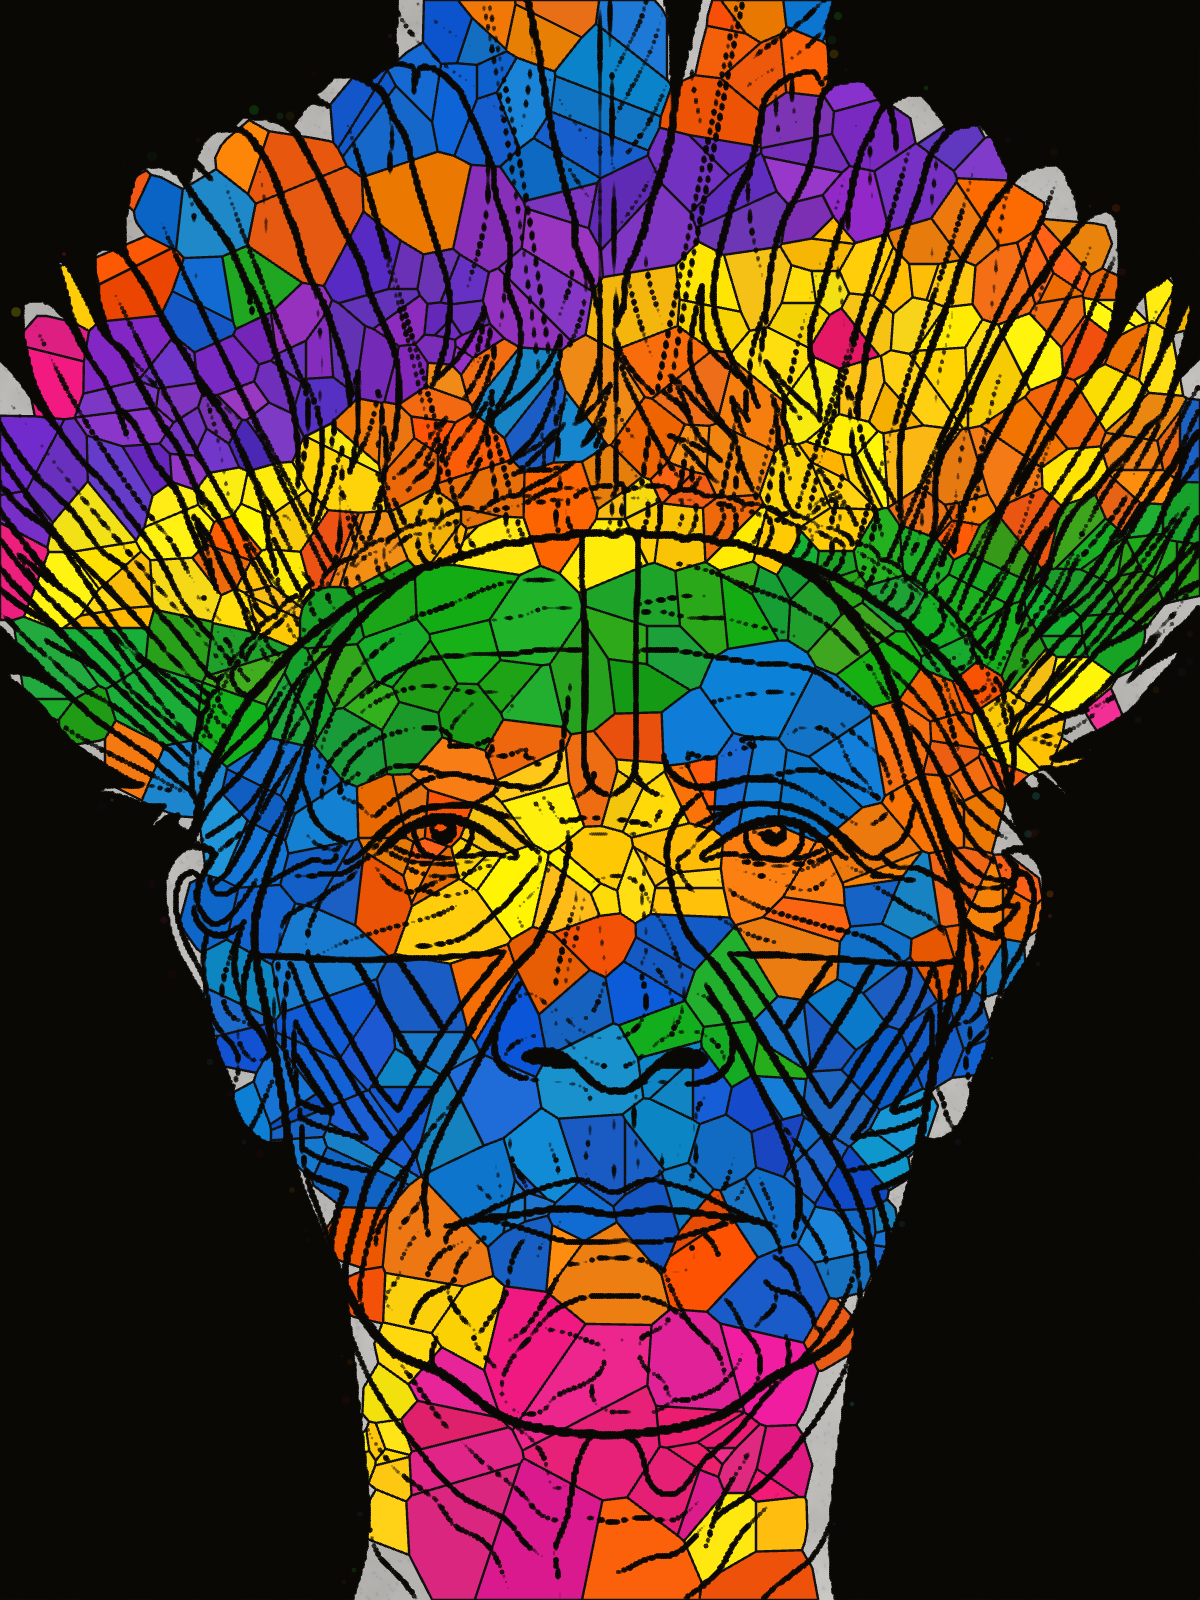
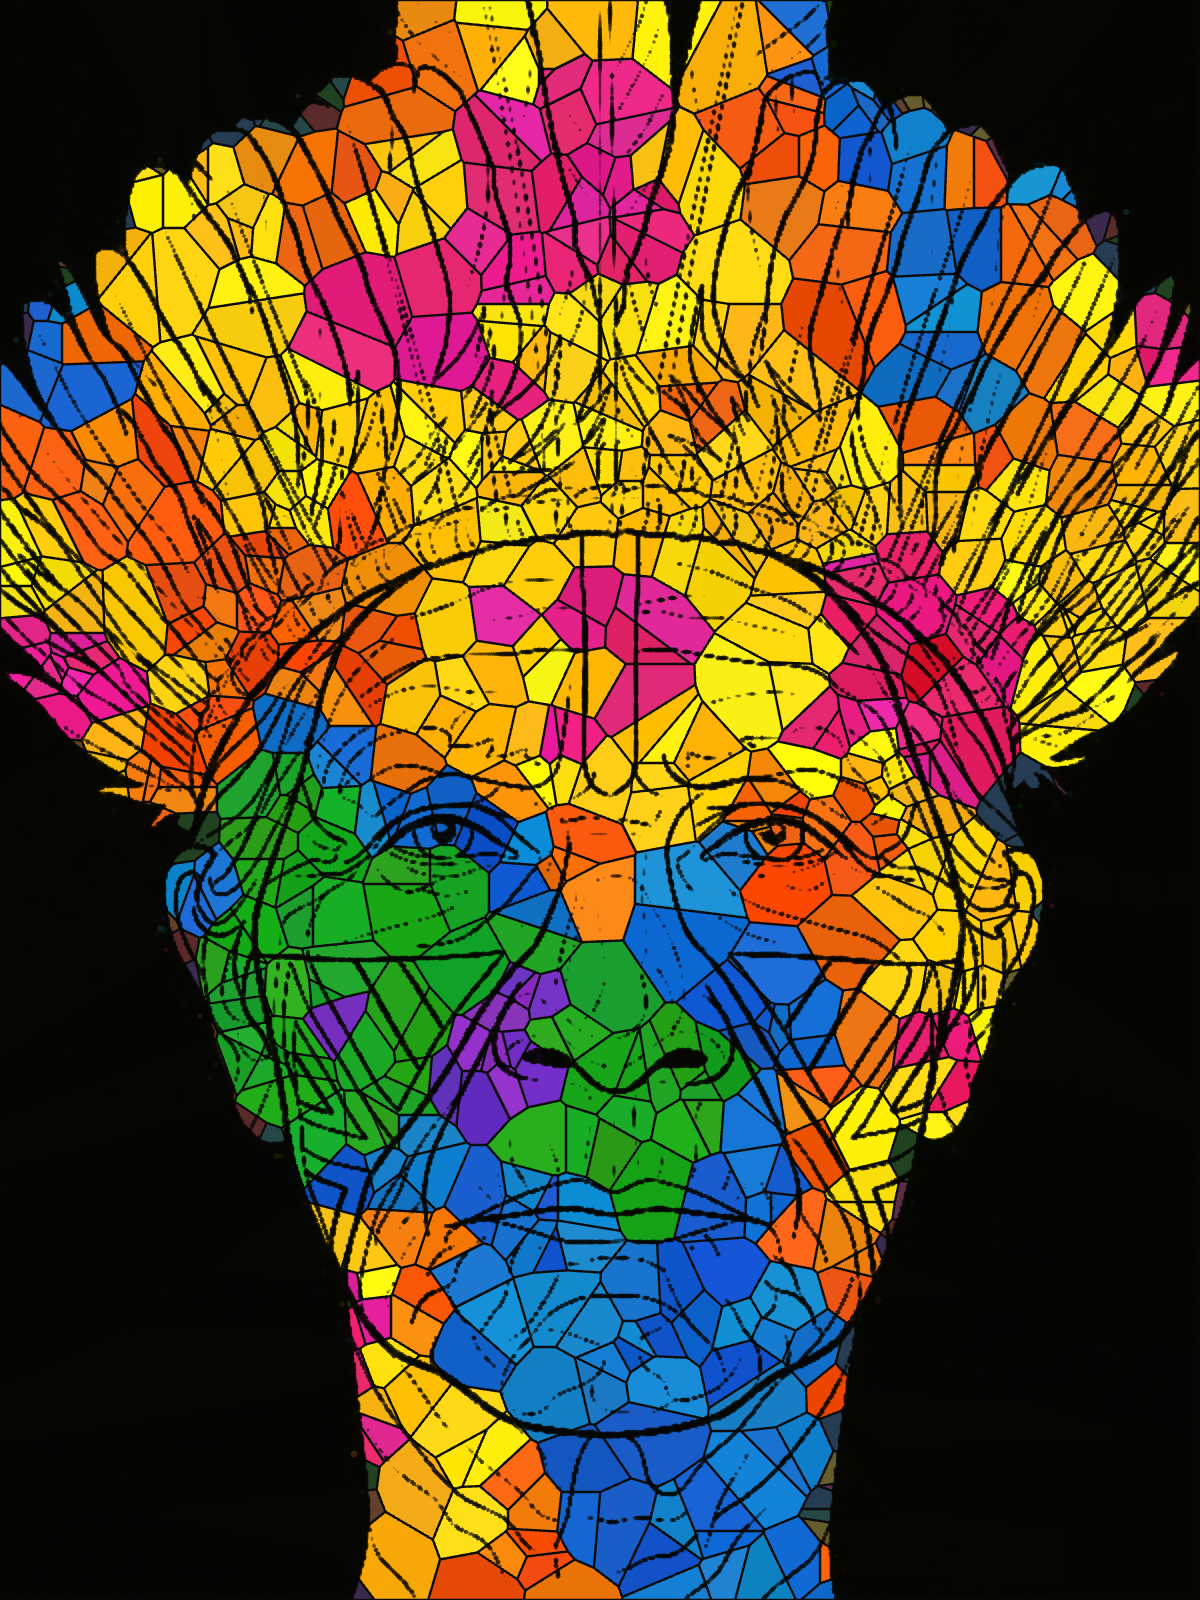
feat: refine Kobra sketch — Voronoi mosaic with thinner strokes for face clarity

diff --git a/sketches/kobra/sketch.js b/sketches/kobra/sketch.js
@@ -3,8 +3,8 @@
  *
  * Generative Eduardo Kobra-style mosaic portrait.
  * A reference image provides facial structure;
- * Voronoi tessellation with kaleidoscopic colors
- * transforms it into a street-mural aesthetic.
+ * Voronoi tessellation with bold spray paint colors
+ * creates geometric color blocks like real Kobra murals.
  *
  * Controls:
  * - Click: Generate new composition
@@ -13,11 +13,10 @@
 
 const W = 600;
 const H = 800;
-const NUM_SEEDS = 500;
-const BORDER_SEEDS = 200;
+const NUM_SEEDS = 600;
+const BORDER_SEEDS = 120;
 
 // Kobra spray paint palettes — bold, vivid, high-saturation colors
-// Based on actual Eduardo Kobra murals and Kobra spray paint chart
 const PALETTES = [
   { // Classic Kobra — full rainbow, maximum impact
     name: 'classic',
@@ -35,43 +34,42 @@ const PALETTES = [
   { // Warm Mural — reds, oranges, yellows, magentas
     name: 'warm',
     colors: [
-      [0, 90, 85],    [355, 85, 90],  // reds
-      [15, 95, 95],   [30, 95, 100],  // oranges
-      [50, 95, 100],  [45, 90, 95],   // yellows
-      [330, 80, 85],  [310, 75, 80],  // magentas/pinks
+      [0, 90, 85],    [355, 85, 90],
+      [15, 95, 95],   [30, 95, 100],
+      [50, 95, 100],  [45, 90, 95],
+      [330, 80, 85],  [310, 75, 80],
     ],
   },
   { // Cool Mural — blues, teals, greens, purples
     name: 'cool',
     colors: [
-      [210, 90, 80],  [225, 85, 75],  // blues
-      [180, 85, 70],  [165, 80, 75],  // teals
-      [120, 80, 70],  [140, 75, 65],  // greens
-      [270, 70, 80],  [285, 65, 75],  // purples
+      [210, 90, 80],  [225, 85, 75],
+      [180, 85, 70],  [165, 80, 75],
+      [120, 80, 70],  [140, 75, 65],
+      [270, 70, 80],  [285, 65, 75],
     ],
   },
   { // Tropical — greens, yellows, oranges, reds
     name: 'tropical',
     colors: [
-      [120, 85, 70],  [100, 80, 80],  // greens
-      [50, 95, 100],  [60, 90, 90],   // yellows
-      [25, 95, 95],   [15, 90, 90],   // oranges
-      [0, 90, 85],    [345, 85, 80],  // reds/crimsons
+      [120, 85, 70],  [100, 80, 80],
+      [50, 95, 100],  [60, 90, 90],
+      [25, 95, 95],   [15, 90, 90],
+      [0, 90, 85],    [345, 85, 80],
     ],
   },
   { // Cosmic — purples, blues, magentas, teals
     name: 'cosmic',
     colors: [
-      [270, 80, 78],  [255, 75, 82],  // purples
-      [210, 85, 85],  [195, 80, 78],  // blues
-      [330, 85, 88],  [340, 80, 85],  // magentas
-      [180, 80, 72],  [165, 75, 78],  // teals
+      [270, 80, 78],  [255, 75, 82],
+      [210, 85, 85],  [195, 80, 78],
+      [330, 85, 88],  [340, 80, 85],
+      [180, 80, 72],  [165, 75, 78],
     ],
   },
 ];
 
 let refImg;
-let wallBuffer;
 let lineBuffer;
 let currentPalette;
 
@@ -83,36 +81,6 @@ function preload() {
   refImg = loadImage('reference.jpg');
 }
 
-function generateWall() {
-  wallBuffer = createGraphics(W, H);
-  wallBuffer.pixelDensity(1);
-  wallBuffer.loadPixels();
-
-  for (let y = 0; y < H; y++) {
-    for (let x = 0; x < W; x++) {
-      let gray = 185;
-      gray += (noise(x * 0.015, y * 0.015) - 0.5) * 35;
-      gray += (noise(x * 0.08 + 500, y * 0.08 + 500) - 0.5) * 18;
-      // Subtle warm tint
-      let r = gray + 3;
-      let g = gray + 1;
-      let b = gray - 2;
-
-      if (noise(x * 0.5 + 1000, y * 0.5 + 1000) > 0.72) {
-        r -= 15; g -= 15; b -= 12;
-      }
-
-      const idx = (y * W + x) * 4;
-      wallBuffer.pixels[idx] = constrain(r, 150, 215);
-      wallBuffer.pixels[idx + 1] = constrain(g, 148, 213);
-      wallBuffer.pixels[idx + 2] = constrain(b, 146, 210);
-      wallBuffer.pixels[idx + 3] = 255;
-    }
-  }
-
-  wallBuffer.updatePixels();
-}
-
 function generateLineBuffer() {
   lineBuffer = createGraphics(W, H);
   lineBuffer.pixelDensity(2);
@@ -122,10 +90,10 @@ function generateLineBuffer() {
   for (let y = 0; y < H; y++) {
     for (let x = 0; x < W; x++) {
       let br = brightnessMap[y][x];
-      if (br < 0.15) {
-        let alpha = map(br, 0, 0.15, 245, 40);
-        let sz = map(br, 0, 0.15, 3, 0.6);
-        lineBuffer.fill(10, 8, 5, alpha);
+      if (br < 0.12) {
+        let alpha = map(br, 0, 0.12, 200, 30);
+        let sz = map(br, 0, 0.12, 2.5, 0.5);
+        lineBuffer.fill(5, 5, 2, alpha);
         lineBuffer.circle(x, y, sz);
       }
     }
@@ -156,7 +124,7 @@ function processReference() {
 
 function dilateSilhouette() {
   let dilated = [];
-  let radius = 4;
+  let radius = 5;
   for (let y = 0; y < H; y++) {
     dilated[y] = [];
     for (let x = 0; x < W; x++) {
@@ -197,9 +165,8 @@ function computeEdges() {
 
 function generateSeeds() {
   let seeds = [];
-  let isFaceSeed = [];
   let attempts = 0;
-  let maxAttempts = NUM_SEEDS * 30;
+  let maxAttempts = NUM_SEEDS * 40;
 
   while (seeds.length < NUM_SEEDS && attempts < maxAttempts) {
     let x = floor(random(W));
@@ -210,24 +177,26 @@ function generateSeeds() {
 
     let br = brightnessMap[y][x];
     let edge = (edgeMap[y] && edgeMap[y][x]) ? edgeMap[y][x] : 0;
-    let prob = (1 - br) * 0.4 + edge * 10;
-    prob = constrain(prob, 0.03, 1.0);
+    // Strong edge weighting — dense small cells on features, large ones on flat areas
+    let prob = (1 - br) * 0.15 + edge * 25;
+    prob = constrain(prob, 0.01, 1.0);
 
     if (random() < prob) {
       seeds.push([x, y]);
-      isFaceSeed.push(true);
     }
   }
 
+  let faceSeedCount = seeds.length;
+
+  // Border seeds just outside silhouette
   let placed = 0;
   for (let a = 0; a < BORDER_SEEDS * 50 && placed < BORDER_SEEDS; a++) {
     let x = floor(random(W));
     let y = floor(random(H));
-    let inside = silhouetteMask[y] && silhouetteMask[y][x];
-    if (inside) continue;
+    if (silhouetteMask[y] && silhouetteMask[y][x]) continue;
     let nearFace = false;
-    for (let dy = -6; dy <= 6; dy += 3) {
-      for (let dx = -6; dx <= 6; dx += 3) {
+    for (let dy = -8; dy <= 8; dy += 4) {
+      for (let dx = -8; dx <= 8; dx += 4) {
         let ny = y + dy, nx = x + dx;
         if (ny >= 0 && ny < H && nx >= 0 && nx < W) {
           if (silhouetteMask[ny] && silhouetteMask[ny][nx]) {
@@ -240,38 +209,27 @@ function generateSeeds() {
     }
     if (nearFace) {
       seeds.push([x, y]);
-      isFaceSeed.push(false);
       placed++;
     }
   }
 
-  return { seeds, isFaceSeed };
-}
-
-function computeVoronoi(seeds) {
-  let delaunay = d3.Delaunay.from(seeds);
-  let voronoi = delaunay.voronoi([0, 0, W, H]);
-  return voronoi;
+  return { seeds, faceSeedCount };
 }
 
 function assignColors(seeds) {
-  // Use spatial Perlin noise to pick from the curated palette
-  // Creates smooth color zones with sophisticated harmonies
   let colors = [];
-  let colorScale = 0.007;
+  let colorScale = 0.006;
   let colorSeed = random(1000);
   let paletteColors = currentPalette.colors;
 
   for (let i = 0; i < seeds.length; i++) {
     let sx = seeds[i][0];
     let sy = seeds[i][1];
-    // Spatial noise picks a palette color index
     let n = noise(sx * colorScale + colorSeed, sy * colorScale);
     let idx = floor(n * paletteColors.length);
     idx = constrain(idx, 0, paletteColors.length - 1);
     let base = paletteColors[idx];
-    // Small variation to keep it vivid but not identical
-    let h = (base[0] + random(-8, 8) + 360) % 360;
+    let h = (base[0] + random(-10, 10) + 360) % 360;
     let s = base[1] + random(-5, 5);
     let b = base[2] + random(-5, 5);
     colors.push([h, constrain(s, 65, 100), constrain(b, 60, 100)]);
@@ -279,72 +237,27 @@ function assignColors(seeds) {
   return colors;
 }
 
-function generatePaintBands() {
-  let bands = [];
-  let numBands = floor(random(2, 4));
-
-  // Bands use colors from the current palette for cohesion
-  let paletteColors = currentPalette.colors;
-  let bandIndices = [];
-  for (let i = 0; i < numBands; i++) {
-    bandIndices.push(floor(random(paletteColors.length)));
-  }
-
-  for (let i = 0; i < numBands; i++) {
-    let baseColor = paletteColors[bandIndices[i]];
-    let angle = random(-PI / 6, PI / 6);
-    let yCenter = map(i, 0, numBands, H * 0.15, H * 0.85);
-    yCenter += random(-50, 50);
-    let bandWidth = random(60, 120);
-    bands.push({
-      angle: angle,
-      yCenter: yCenter,
-      width: bandWidth,
-      hueRange: [baseColor[0] - 15, baseColor[0] + 15],
-      baseSat: baseColor[1],
-      baseBri: baseColor[2],
-    });
-  }
-
-  return bands;
-}
-
-function getColorForCell(sx, sy, baseColor, bands) {
-  for (let band of bands) {
-    let dx = sx - W / 2;
-    let dy = sy - H / 2;
-    let rotY = -dx * sin(band.angle) + dy * cos(band.angle) + H / 2;
-    if (abs(rotY - band.yCenter) < band.width / 2) {
-      let h = (random(band.hueRange[0], band.hueRange[1]) + 360) % 360;
-      let s = band.baseSat + random(-5, 5);
-      let b = band.baseBri + random(-5, 5);
-      return [h, constrain(s, 65, 100), constrain(b, 60, 100)];
-    }
-  }
-  return baseColor;
-}
-
-function renderMosaic(seeds, isFaceSeed, voronoi, bands) {
+function renderMosaic(seeds, delaunay, colors, faceSeedCount) {
   colorMode(HSB, 360, 100, 100);
+  let voronoi = delaunay.voronoi([0, 0, W, H]);
 
-  let colors = assignColors(seeds);
-
+  // Render all seeds (face + border) — border cells fill edge gaps
   for (let i = 0; i < seeds.length; i++) {
-    if (!isFaceSeed[i]) continue;
-
     let cell = voronoi.cellPolygon(i);
     if (!cell) continue;
 
-    let sx = floor(seeds[i][0]);
-    let sy = floor(seeds[i][1]);
-    if (sy < 0 || sy >= H || sx < 0 || sx >= W) continue;
-    if (!silhouetteMask[sy] || !silhouetteMask[sy][sx]) continue;
+    // Border seeds get a nearby face color
+    let col = colors[i];
+    if (i >= faceSeedCount) {
+      // For border cells, use a darkened version of a random palette color
+      let pc = currentPalette.colors[floor(random(currentPalette.colors.length))];
+      col = [pc[0], pc[1] * 0.6, pc[2] * 0.4];
+    }
 
-    let col = getColorForCell(sx, sy, colors[i], bands);
-    // Bold flat fill — no additional randomization, like real spray paint
     fill(col[0], col[1], col[2]);
-    stroke(12, 15, 8);
+    stroke(0, 0, 5);
     strokeWeight(1.2);
+    strokeJoin(MITER);
 
     beginShape();
     for (let j = 0; j < cell.length; j++) {
@@ -361,15 +274,15 @@ function renderSprayEdge() {
   noStroke();
   let paletteColors = currentPalette.colors;
 
-  for (let i = 0; i < 3000; i++) {
+  for (let i = 0; i < 2500; i++) {
     let x = floor(random(W));
     let y = floor(random(H));
 
     let inside = silhouetteMask[y] && silhouetteMask[y][x];
     let neighbors = 0;
     let total = 0;
-    for (let dy = -4; dy <= 4; dy++) {
-      for (let dx = -4; dx <= 4; dx++) {
+    for (let dy = -5; dy <= 5; dy++) {
+      for (let dx = -5; dx <= 5; dx++) {
         let ny = y + dy, nx = x + dx;
         if (ny >= 0 && ny < H && nx >= 0 && nx < W) {
           total++;
@@ -378,13 +291,12 @@ function renderSprayEdge() {
       }
     }
     let ratio = neighbors / total;
-    if (ratio > 0.15 && ratio < 0.85) {
-      let alpha = map(abs(ratio - 0.5), 0, 0.35, 60, 10);
-      if (!inside) alpha *= 0.4;
-      // Use palette colors for spray too
+    if (ratio > 0.1 && ratio < 0.9) {
+      let alpha = map(abs(ratio - 0.5), 0, 0.4, 50, 5);
+      if (!inside) alpha *= 0.3;
       let pc = paletteColors[floor(random(paletteColors.length))];
       fill(pc[0] + random(-15, 15), pc[1], pc[2], alpha);
-      circle(x, y, random(1, 5));
+      circle(x, y, random(1, 4));
     }
   }
   colorMode(RGB, 255);
@@ -398,18 +310,19 @@ function setup() {
   dilateSilhouette();
   computeEdges();
   noiseSeed(floor(random(99999)));
-  generateWall();
   generateLineBuffer();
   currentPalette = random(PALETTES);
   noLoop();
 }
 
 function draw() {
-  image(wallBuffer, 0, 0);
-  let { seeds, isFaceSeed } = generateSeeds();
-  let voronoi = computeVoronoi(seeds);
-  let bands = generatePaintBands();
-  renderMosaic(seeds, isFaceSeed, voronoi, bands);
+  background(10);
+  let result = generateSeeds();
+  let seeds = result.seeds;
+  let faceSeedCount = result.faceSeedCount;
+  let delaunay = d3.Delaunay.from(seeds);
+  let colors = assignColors(seeds);
+  renderMosaic(seeds, delaunay, colors, faceSeedCount);
   image(lineBuffer, 0, 0);
   renderSprayEdge();
 }
